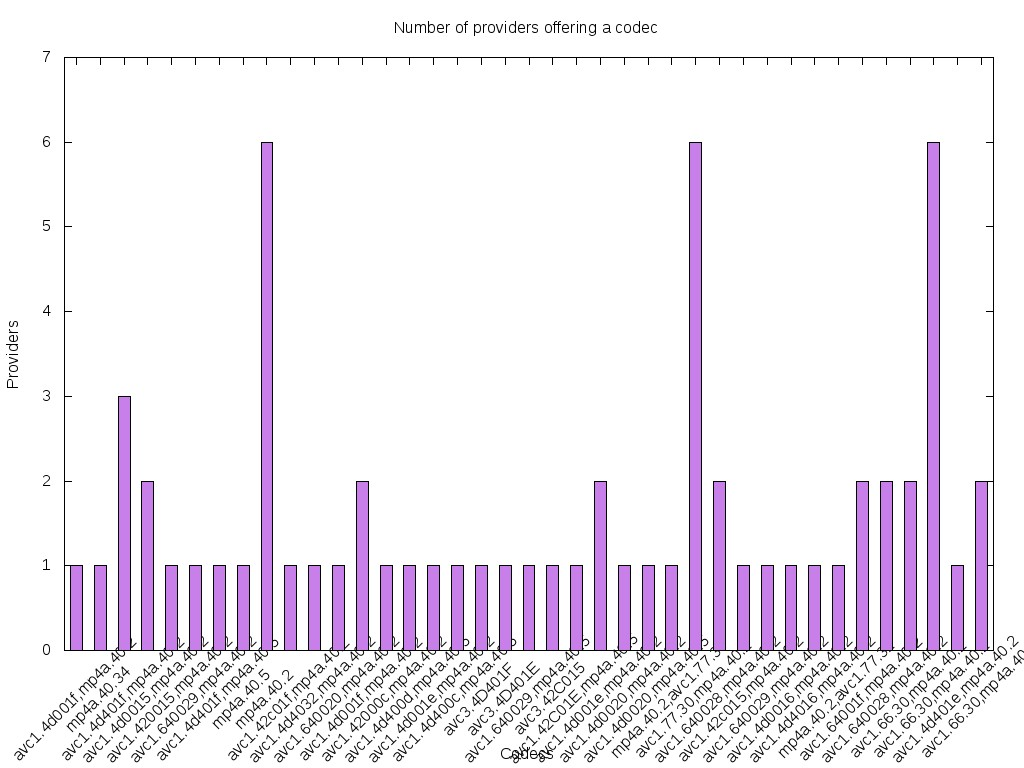
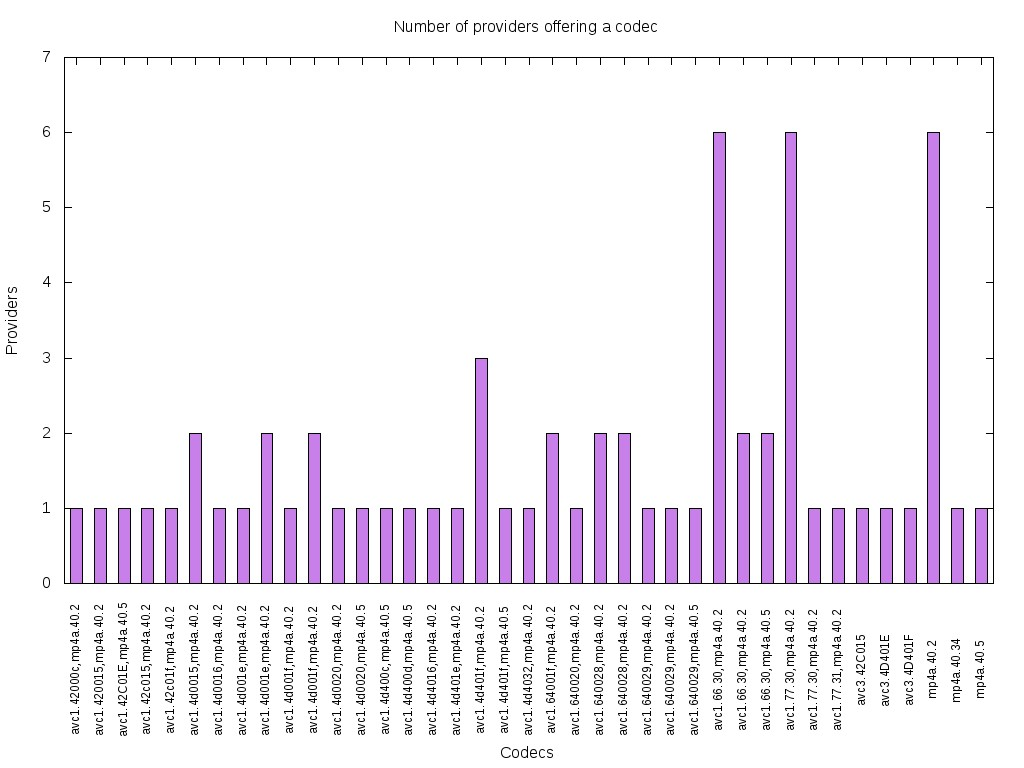
fixes for codecs plot 2

diff --git a/analysis/analysis.py b/analysis/analysis.py
@@ -68,7 +68,7 @@ def create_codec_bar_plot(provider_info):
     with open('plot_inputs/codecs_bar_plot2.in', 'w+') as g:
         g.write("#seq codec num_of_providers\n")
         counter = 1
-        for codec in codecs_usage:
+        for codec in sorted(codecs_usage.keys()):
             g.write("%d %s %d\n" % (counter, codec.replace(' ', ''), codecs_usage[codec]))
             counter += 1
         
